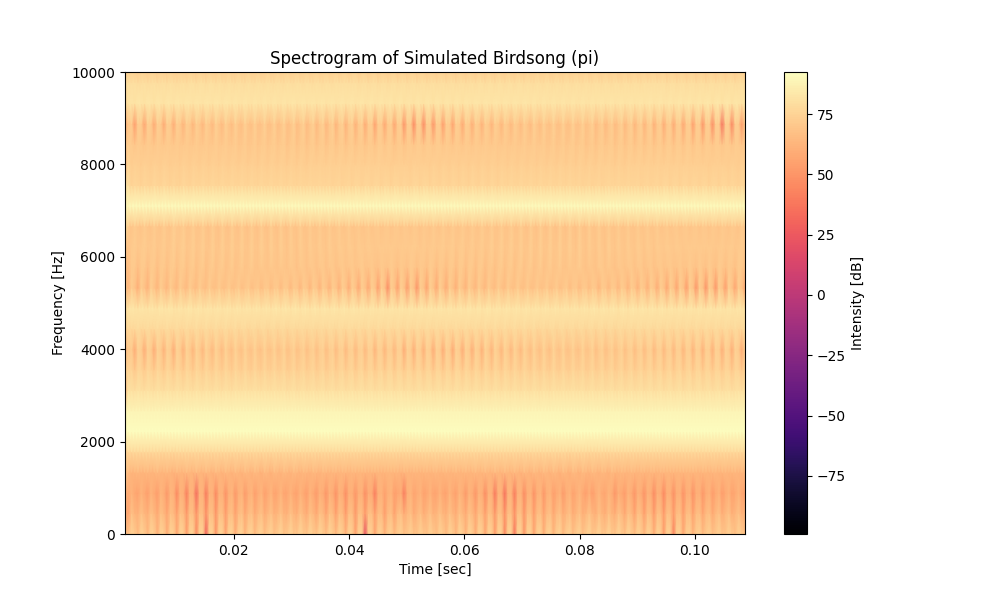
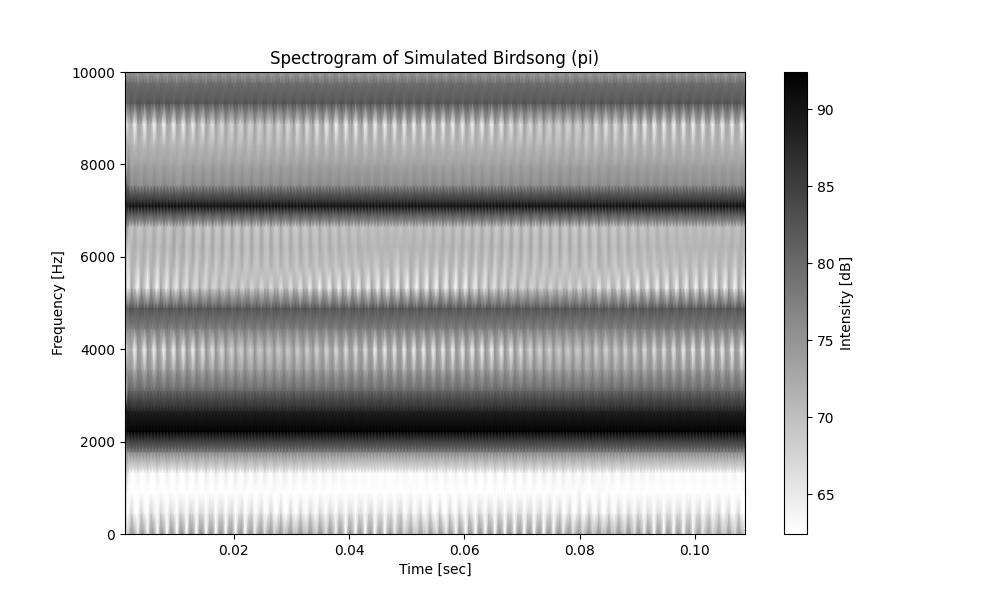
sonogram

diff --git a/kashika.py b/kashika.py
@@ -17,8 +17,18 @@ sampling_rate = 1.0 / (time[1] - time[0])
 # ソノグラムを計算してプロット
 f, t, Sxx = spectrogram(pi, fs=sampling_rate, nperseg=2048, noverlap=1536)
 
+# デシベル(dB)に変換
+db_Sxx = 10 * np.log10(Sxx + 1e-10)
+
+# カラースケールの調整 
+cmap = 'gray_r'
+
+# 2. 表示する色の範囲(ダイナミックレンジ)を決定
+vmax = np.max(db_Sxx)  # データ全体の最大値を取得し、これを一番濃い色(黒)とする
+vmin = vmax - 30       # 最大値から50dB下までを色の範囲とする
+
 plt.figure(figsize=(10, 6))
-plt.pcolormesh(t, f, 10 * np.log10(Sxx), shading='gouraud', cmap='magma')
+plt.pcolormesh(t, f, 10 * np.log10(Sxx), shading='gouraud', cmap=cmap, vmin=vmin, vmax=vmax)
 plt.ylabel('Frequency [Hz]')
 plt.xlabel('Time [sec]')
 plt.ylim(0, 10000) # 論文の図に合わせて周波数範囲を設定
